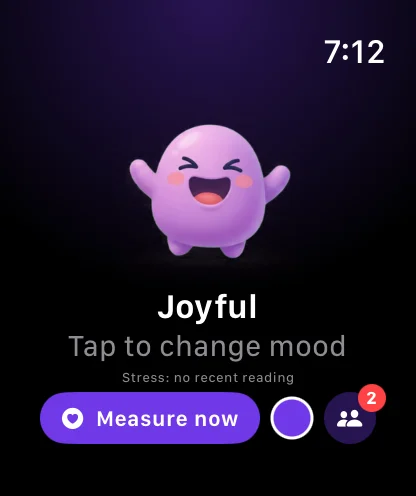
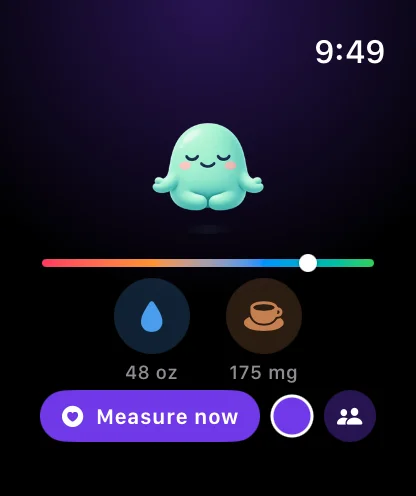
Website: hydration & caffeine section, health detail and watch drink screenshots, HRV alerts

Changed region(s): [[0.0938, 0.2419, 0.9062, 0.9073], [0.7812, 0.756, 0.9375, 0.9073], [0.75, 0.0605, 0.9375, 0.1512]]

diff --git a/website/public/index.html b/website/public/index.html
@@ -54,13 +54,13 @@
         <div class="phone" data-screen="hrv"></div>
         <div><span class="kicker mint">Daily stress score</span><h3>Know your stress level in one glance</h3>
         <p>MoodPals compares each Apple Watch HRV reading with <em>your own</em> last 21 days, not population averages, and shows a clear level: Great, Normal, Elevated or Overload. You also get an energy score built from your sleep, stress and activity.</p>
-        <ul><li>HRV trend coloured by stress level</li><li>Hourly heart rate and resting heart rate</li><li>Day, week, month and year stress trends</li></ul></div>
+        <ul><li>HRV alerts when your stress runs high</li><li>HRV trend coloured by stress level</li><li>Hourly heart rate and resting heart rate</li><li>Day, week, month and year stress trends</li></ul></div>
       </article>
       <article class="feature rev">
-        <div class="phone" data-screen="actions"></div>
+        <div class="phone" data-screen="actions" data-slides="actions-top,sleep-detail"></div>
         <div><span class="kicker peach">Body &amp; recovery</span><h3>Sleep, activity and calm, all in one place</h3>
         <p>Sleep duration and stages, Move/Exercise/Stand rings, daylight, mindful minutes, steps and noise levels come straight from Apple Health. One tap starts a guided breathing break when your pal looks worried.</p>
-        <ul><li>Sleep detail with stages and heart rate while asleep</li><li>Calm, box and unwind breathing</li><li>Water, caffeine and mood check-ins</li></ul></div>
+        <ul><li>Tap any tile for a Day view with a goal ring and insights</li><li>Sleep detail with stages and heart rate while asleep</li><li>Calm, box and unwind breathing</li><li>Week, Month and 30 days of history with Plus</li></ul></div>
       </article>
       <article class="feature">
         <div class="phone" data-screen="diary"></div>
@@ -85,7 +85,7 @@
         <div><span class="kicker mint">Apple Watch</span><h3>Your pal, right on your wrist</h3>
         <p>The MoodPals watch app shows the same animated pal as your iPhone, changing with your mood and stress level. Add a MoodPals complication and your mood sits right next to the time, so you can see it without opening the app. Measure your stress on demand, check in with a tap and pick a watch theme that suits you.</p>
         <p>Your Circle comes along too. A mood you pick on your watch is shared with the groups you've allowed to see it, and while the app is open, a friend's reaction floats gently over your pal. A small Circle button shows how many reactions you haven't seen yet.</p>
-        <ul><li>Share your mood with your Circle from your wrist</li><li>Friends' reactions float by while the app is open</li><li>Mood, Mood &amp; Stress and Stress score complications</li><li>Measure now: a fresh stress reading in about a minute</li><li>Tap to change your mood, guided breathing on your wrist</li><li>The Watches tab on your iPhone shows if your watch is set up, with the steps if it isn't</li><li>Same stress score on your iPhone and Apple Watch</li></ul></div>
+        <ul><li>Share your mood with your Circle from your wrist</li><li>Friends' reactions float by while the app is open</li><li>Mood, Mood &amp; Stress and Stress score complications</li><li>Measure now: a fresh stress reading in about a minute</li><li>Log water and caffeine with one tap on your own watch</li><li>Tap to change your mood, guided breathing on your wrist</li><li>The Watches tab on your iPhone shows if your watch is set up, with the steps if it isn't</li><li>Same stress score on your iPhone and Apple Watch</li></ul></div>
       </article>
       <article class="feature" id="watch-mood">
         <div class="watch-steps">
@@ -96,6 +96,12 @@
         <div><span class="kicker lilac">New: Pick your mood on Apple Watch</span><h3>Swipe through your pals</h3>
         <p>Tap your pal on the watch to change your mood. All six pals sit in one row, like an album selector: your current mood is big and animated in the middle, and the others get smaller toward the edges. Swipe left or right, tap a pal or turn the Digital Crown, and the next one slides into the middle. Nothing changes until you tap Set Mood.</p>
         <ul><li>Tap your pal to open the mood picker</li><li>Swipe, tap or turn the Digital Crown to bring a pal to the middle</li><li>Tap Set Mood to save it and share it with your Circle</li><li>Went back to your heart data on iPhone? Your watch follows too</li></ul></div>
+      </article>
+      <article class="feature rev" id="hydration">
+        <div class="phone" data-screen="hydration" data-slides="hydration,caffeine"></div>
+        <div><span class="kicker sky">New: Hydration &amp; caffeine</span><h3>Log every glass and every coffee</h3>
+        <p>Log water in ounces with one tap, or pick your drink: Americano, Latte, Flat White, Milk Tea, Green Tea or Espresso. MoodPals keeps a daily caffeine guide and can add your coffee or tea to your hydration too. On your own Apple Watch, tap the water drop or the cup to log a drink, and set how much each tap counts in the app.</p>
+        <ul><li>Free to log water and caffeine</li><li>Caffeine drinks can count toward hydration</li><li>Log from your wrist or a watch-face shortcut</li><li>Daily water goal and water reminders with Plus</li></ul></div>
       </article>
       <article class="feature" id="family">
         <div class="phone" data-screen="family" data-slides="family-location,family-signal,watches-tab,your-day,your-day-reactions"></div>

diff --git a/website/public/app.js b/website/public/app.js
@@ -81,7 +81,7 @@ document.querySelectorAll('.phone').forEach(phone => {
   phone.appendChild(screen);
   const slides = (phone.dataset.slides || '').split(',').filter(Boolean);
   if (slides.length) {
-    screen.innerHTML = slides.map((s, i) => `<img class="slide${i ? '' : ' on'}" src="/img/screens/${s}.webp?v=13" alt="MoodPals ${s.replace('-', ' ')} screen">`).join('');
+    screen.innerHTML = slides.map((s, i) => `<img class="slide${i ? '' : ' on'}" src="/img/screens/${s}.webp?v=14" alt="MoodPals ${s.replace('-', ' ')} screen">`).join('');
     let i = 0;
     const imgs = screen.querySelectorAll('.slide');
     setInterval(() => { imgs[i].classList.remove('on'); i = (i + 1) % imgs.length; imgs[i].classList.add('on'); }, 2800);
@@ -128,7 +128,7 @@ document.querySelectorAll('[data-join]').forEach(link => link.addEventListener('
 document.querySelectorAll('[data-watch]').forEach(watch => {
   const slides = (watch.dataset.watchSlides || '').split(',').filter(Boolean);
   if (slides.length) {
-    watch.innerHTML = `<div class="band top"></div><div class="case"><div class="face">${slides.map((s, i) => `<img class="wslide${i ? '' : ' on'}" src="/img/watch/${s}.webp?v=2" alt="MoodPals Apple Watch ${s} screen">`).join('')}</div></div><div class="band bottom"></div>`;
+    watch.innerHTML = `<div class="band top"></div><div class="case"><div class="face">${slides.map((s, i) => `<img class="wslide${i ? '' : ' on'}" src="/img/watch/${s}.webp?v=3" alt="MoodPals Apple Watch ${s} screen">`).join('')}</div></div><div class="band bottom"></div>`;
     let i = 0;
     const imgs = watch.querySelectorAll('.wslide');
     setInterval(() => { imgs[i].classList.remove('on'); i = (i + 1) % imgs.length; imgs[i].classList.add('on'); }, 2800);
